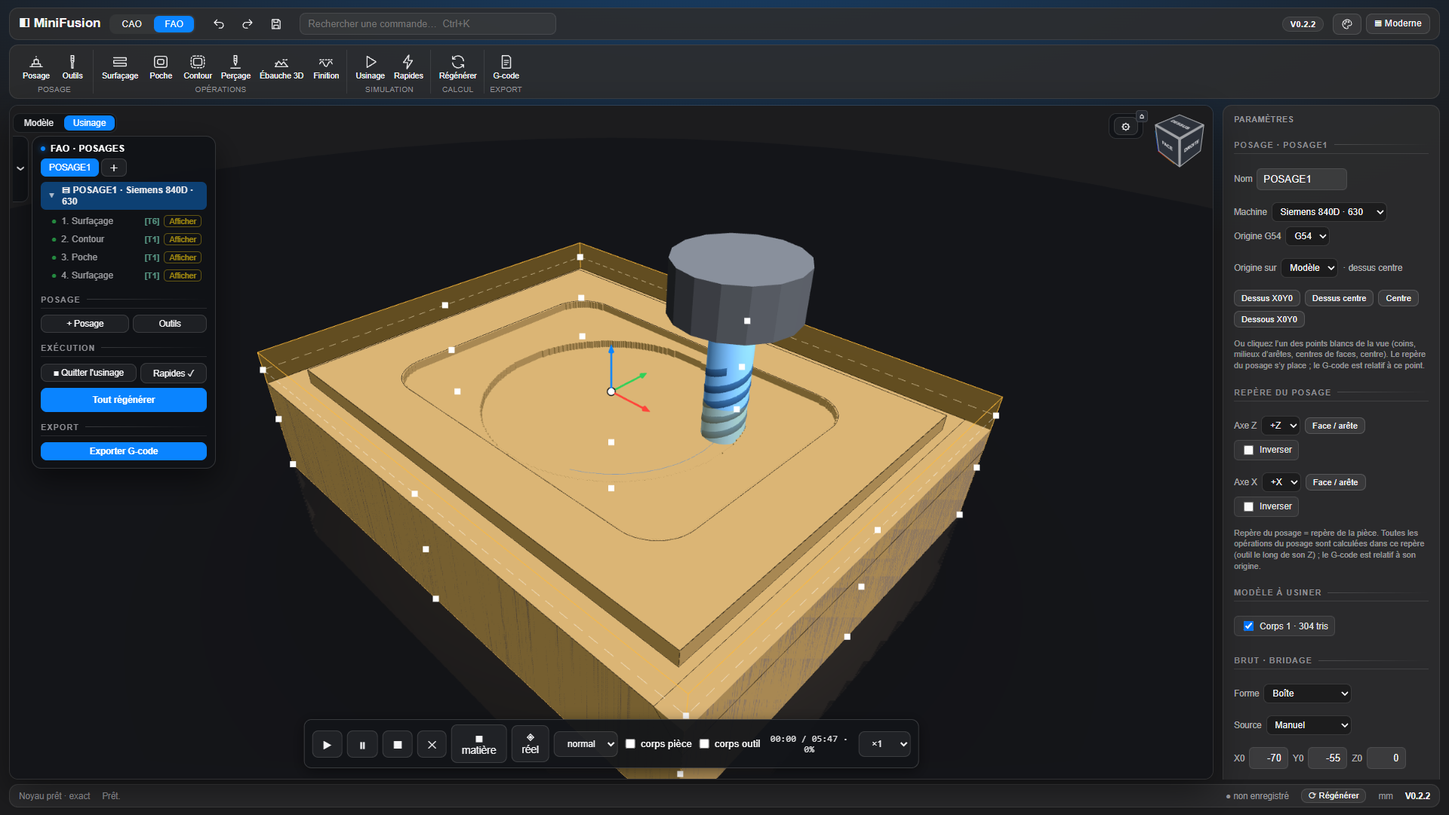
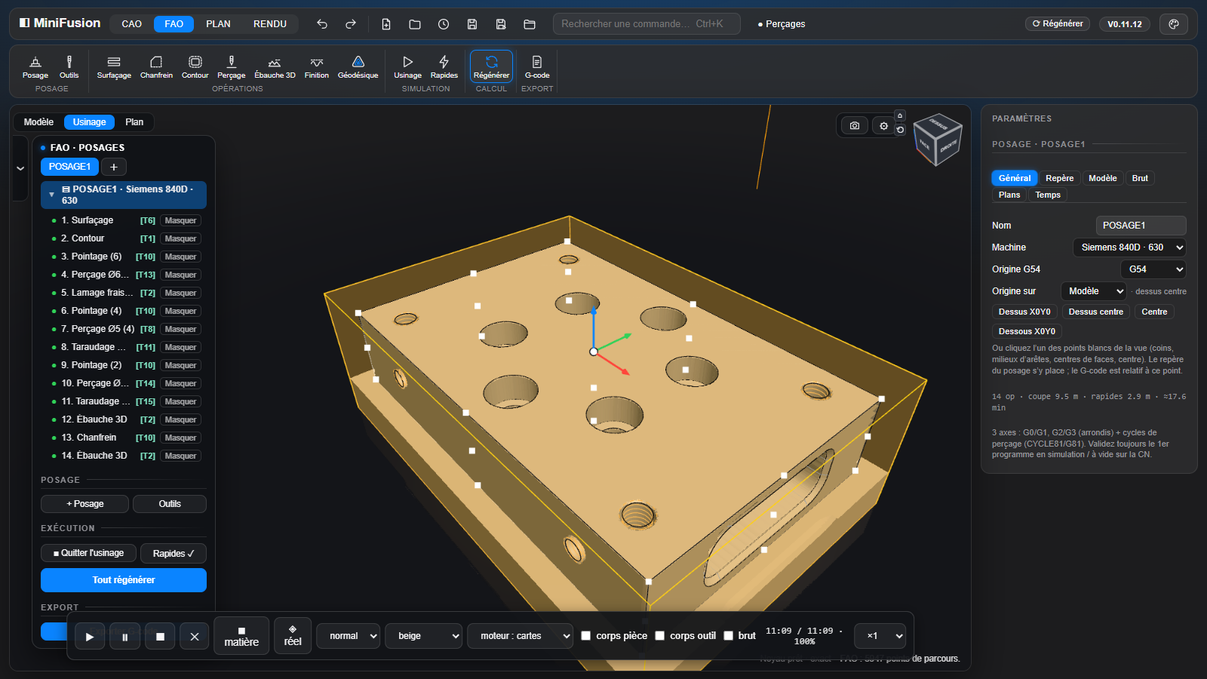
README refait pour la V0.11.12 : captures neuves CAO, FAO, PLAN, RENDU
- README réécrit : rendu de la Pédale R1200RT en tête, tableau des quatre
  espaces, sections Assemblage et RENDU, perçage reconnu sur le modèle,
  chiffres de développement à jour.
- 8 captures neuves (Perçages, Crochet, Support Pédale) ; les 12 anciennes
  (V0.3 à V0.9) retirées.
- tools/captures.cjs + npm run captures : captures refaites dans Chromium
  sur la carte graphique, sans réécrire les exemples.

diff --git a/README.md b/README.md
@@ -1,239 +1,153 @@
 # MiniFusion
 
-**CAO paramétrique, assemblage, FAO et mise en plan dans un seul fichier HTML.** Esquisses contraintes, solides à historique, congés exacts, posages, parcours 2,5D / 3D, 3+2, G-code et planches cotées ISO. On ouvre la page et on travaille : il n'y a ni installation ni compte.
+**CAO paramétrique, assemblage, FAO, mise en plan et rendu, dans un seul fichier HTML.** On ouvre la page et on travaille : ni installation, ni compte, ni connexion.
 
-Le noyau géométrique exact est **OpenCascade compilé en WebAssembly**. Si le noyau n'est pas disponible, l'application bascule seule sur un moteur maillage (CSG). Version actuelle : **V0.9.13** (voir le [journal des modifications](CHANGELOG.md)).
+![Support de pédale déportée R1200RT, rendu de l'atelier RENDU](docs/captures/rendu-pedale.png)
+
+Le noyau géométrique exact est **OpenCascade compilé en WebAssembly**. S'il n'est pas disponible, l'application bascule seule sur un moteur maillage (CSG). Version actuelle : **V0.11.12** (voir le [journal des modifications](CHANGELOG.md)).
+
+| | |
+|---|---|
+| ![Espace CAO](docs/captures/cao-percages.png) | ![Espace FAO](docs/captures/fao-parcours.png) |
+| **CAO** : esquisses contraintes, solides à historique, congés exacts, perçages taraudés | **FAO** : posages, 2,5D, 3D, 3+2, perçage, simulation, G-code Siemens et Fagor |
+| ![Espace PLAN](docs/captures/plan-percages.png) | ![Atelier RENDU](docs/captures/rendu-atelier.png) |
+| **PLAN** : planches cotées ISO, coupes, cartouche, nomenclature | **RENDU** : images réalistes 1920×1080 ou 4K |
 
 ## Sommaire
 
 - [Interface](#interface)
-- [CAO](#cao) : esquisse, fonctions 3D, corps, mesures, fichiers
-- [Composants](#composants) : composants imbriqués, occurrences, placement par repères
-- [FAO](#fao) : posage, brut, opérations, simulation, 3+2, G-code
+- [CAO](#cao) : esquisse, construction, fonctions 3D, corps et fichiers
+- [Assemblage](#assemblage) : composants, liaisons, références entre composants
+- [FAO](#fao) : posage, opérations, perçage, simulation, 3+2, G-code
 - [PLAN](#plan) : planches, vues, coupes, cotation, sorties
+- [RENDU](#rendu) : ambiances, matériaux, appareil photo
 - [Souris et clavier](#souris-et-clavier)
-- [Démarrage](#démarrage) · [Développement](#développement) · [Licences](#licences)
+- [Démarrage](#démarrage) · [Scripts et MCP](#scripts-et-pilotage-par-claude-mcp) · [Développement](#développement) · [Licences](#licences)
 
 ## Interface
 
-![Interface](docs/captures/interface-moderne.png)
-
-Une seule interface, organisée en **trois espaces** : **CAO**, **FAO** et **PLAN**.
-- **Bandeau supérieur** : espaces CAO / FAO / PLAN, barre rapide (annuler, rétablir, fichiers), **recherche de commandes** (`Ctrl+K`), puis l'**état** — noyau, message en cours (texte complet au survol), **Régénérer**, unité —, le nom du document (● = non enregistré) et la version. Au premier lancement, le bouton **Noyau .wasm…** y active le noyau exact. Sur un écran étroit, l'état passe sur une 2ᵉ ligne du bandeau.
-- **Ruban à icônes** propre à chaque espace, sous le bandeau.
-- **Navigateur Modèle / Usinage** avec des **onglets de posages**, et panneau de propriétés à droite. Pas de barre en bas : la **vue 3D descend jusqu'en bas** de la fenêtre.
-- **Fenêtres de fonctions à icônes** (extrusion pour commencer) : les choix (opération, direction, étendue) en boutons à icône plutôt qu'en listes, les réglages rares dans « ▸ Options », **Annuler / OK**.
-- **Cinq thèmes** (bouton palette) : **Nuit**, **Graphite**, **Atelier**, **Clair** (vue 3D claire comprise) et **Contraste élevé**. Le choix est mémorisé.
-
-![Thème clair](docs/captures/theme-clair.png)
-
-**Vue 3D**
-- **Cube de vue** cliquable (faces, ⌂ = vue iso complète) et vues Dessus / Face / Droite / Iso.
-- **Orbite contrainte** (Z en haut) ou **orbite libre** dans tous les sens, au choix par le bouton ⟲ du cube ; le **centre de rotation** est la face sélectionnée, sinon le centre des pièces visibles (en mode Placer : la pièce sélectionnée ou le repère cliqué dans l'arbre).
-- **Sol miroir** sous la dernière pièce visible (composants autour de la pièce compris ; sous le brut en FAO, simulation comprise). En FAO, le haut de la vue est le Z du posage ou de l'opération.
-- **Transparence « verre »** : une pièce transparente montre son intérieur, mais jamais à travers une pièce opaque qui la cache.
+Quatre espaces dans le bandeau supérieur : **CAO**, **FAO**, **PLAN** et **RENDU**.
+- **Bandeau** : barre rapide (annuler, rétablir, fichiers), **recherche de commandes** (`Ctrl+K`), état du noyau, **Régénérer**, nom du document (● = non enregistré) et version.
+- **Ruban à icônes** propre à chaque espace.
+- **Navigateur Modèle / Usinage / Plan** à gauche, avec des **onglets de posages** ; **propriétés** à droite ; **timeline** en bas de la vue 3D.
+- **Fenêtres de fonctions** à boutons-icônes, aperçu immédiat, poignées dans la vue, **Annuler / OK**.
+- **Annuler / Rétablir partout** (`Ctrl+Z` / `Ctrl+Y`) : CAO, esquisse, assemblage, FAO, PLAN et RENDU.
+- **Cinq thèmes** : Nuit, Graphite, Atelier, Clair, Contraste élevé.
+- **Vue 3D** : cube de vue, orbite contrainte ou libre, centre de rotation sur la sélection, sol miroir, transparence « verre ».
 
 ## CAO
 
-![Esquisse](docs/captures/cao-esquisse.png)
+![Crochet : extrusion, congés, perçages fraisés](docs/captures/cao-crochet.png)
 
 ### Esquisse
 
-**Vue d'esquisse, façon Fusion 360**
-- À l'ouverture, l'esquisse se met **à plat**, face choisie **devant et à l'endroit** (le Z du monde en haut). Si on décoche la case **« À plat »**, la **vue 3D courante est gardée** : on dessine sur le plan sans quitter son point de vue, et la vue reste orientée ainsi à la sortie.
-- **Orbite** pendant le dessin : **clic-molette glissé**, cube de vue, ou bouton **⟳** (vue inclinée ↔ à plat). La touche **N** remet la vue à plat dans le plan de l'esquisse. Le tracé, l'accrochage, le zoom et le déplacement restent exacts sur le plan sous tous les angles, et les cotes restent lisibles.
-- La **pièce est affichée en transparence** : faces légèrement teintées, toutes les arêtes tracées comme en 3D (gris clair devant, gris plus sombre derrière). Pour une esquisse consommée par une fonction, c'est l'état de la pièce **avant** cette fonction.
-- **Grille** affichable ou masquée (bouton **▦**, masquée par défaut, choix mémorisé) ; les axes de l'origine restent toujours visibles. L'accroche au pas (« Grille 1 mm ») marche dans les deux cas.
-- **Bandeau Esquisse** sans boutons en double : le zoom se fait à la molette ; pendant une esquisse, les flèches ↩ ↪ du bandeau supérieur (et `Ctrl+Z` / `Ctrl+Y`) annulent et rétablissent les **tracés**.
-- Une esquisse posée sur une face verticale a son axe vertical vers le haut : elle ne s'ouvre plus à l'envers.
-
-![Esquisse en vue 3D inclinée : pièce en transparence, arêtes visibles et cachées](docs/captures/cao-esquisse-3d.jpg)
-
-**Dessin et contraintes**
-- **Outils** : ligne, rectangle (coin ou centre), oblong, cercle, arc, points de construction et de perçage, **projection associative** d'arêtes 3D, **intersection** du plan d'esquisse avec des faces ou un corps entier (touche I, courbes associatives), congé, chanfrein et décalage 2D, ajustement (trim).
-- **Contraintes** (13) : horizontal, vertical, parallèle, perpendiculaire, colinéaire, égal, symétrie (y compris par rapport à une droite infinie), tangence (le côté se choisit), coaxial, milieu, fixe, coïncident, construction.
-- **Solveur** : moindres carrés (Levenberg-Marquardt) au **moindre déplacement** : le reste de l'esquisse bouge le moins possible, un point tenu sur une courbe glisse. Un **glisser avance par petits pas**, chacun résolu depuis le précédent, sans sauter vers la solution symétrique ; au bord de ce que la géométrie peut atteindre, elle s'arrête. Une **cote ou une contrainte impossible est refusée** : l'esquisse reste telle quelle et la barre d'état dit pourquoi. Le panneau « Santé » affiche les degrés de liberté réels ; l'esquisse est bleue (sous-contrainte) ou blanche (totalement contrainte).
-- **Cotes pilotées** : longueur, Ø, rayon, distance, angle, entraxe ; cotes de référence ; saisie dynamique de la longueur et de l'angle pendant le tracé.
-- **Paramètres nommés** (`nom = valeur`) et **expressions ƒx**, dans les cotes comme dans les champs des fonctions 3D.
-- **Configurations** (fenêtre ƒx) : une table de variantes — une colonne par valeur nommée, une ligne par variante (valeurs ou expressions, fonctions supprimées). Le sélecteur en tête de l'arbre active une variante : valeurs écrites, fonctions supprimées / rétablies, régénération, une étape d'annulation. « Mémoriser l'état actuel » remplit la variante active.
-- **Raccourcis** `F1`–`F12` (contraintes), `H` (centre de perçage), `L` `C` `R` `B` `P` `T` `D` `F` `O` (outils), `X` (construction), `N` (à plat), plus une aide intégrée.
-
-![Pièce de révolution, congés, chanfreins, perçages répétés](docs/captures/cao-axe.png)
+- **Outils** : ligne, rectangle, oblong, cercle, arc, points de construction et de perçage, **projection associative** d'arêtes (aussi celles des autres composants), **intersection** du plan avec des faces ou un corps, congé, chanfrein, décalage 2D, ajustement.
+- **13 contraintes** (horizontal, vertical, parallèle, perpendiculaire, colinéaire, égal, symétrie, tangence, coaxial, milieu, fixe, coïncident, construction) et **cotes pilotées** (longueur, Ø, rayon, distance, angle, entraxe).
+- **Solveur** Levenberg-Marquardt au moindre déplacement : une cote impossible est refusée et la barre d'état dit pourquoi ; degrés de liberté réels, esquisse bleue (sous-contrainte) ou blanche (totalement contrainte).
+- **Vue d'esquisse** à plat ou dans la vue 3D courante, pièce en transparence, orbite au clic-molette, touche `N` pour revenir à plat.
+- **Paramètres nommés**, **expressions ƒx** et **configurations** (tables de variantes).
 
 ### Géométrie de construction
 
-Groupe **Construire** du ruban (et `Ctrl+K`) : des références à la manière de Fusion 360, rangées dans le groupe **📐 Construction** de l'arborescence et placées dans le fil des fonctions.
-- **Plans** : décalé, à un angle autour d'un axe, par 3 points, médian entre deux plans parallèles, normal à un axe.
-- **Axes** : sur une arête droite, une face cylindrique ou conique, un axe ; par 2 points ; intersection de 2 plans ; normal à un plan.
-- **Points** : sommet, centre d'une arête circulaire, point d'esquisse ; coordonnées dans un repère ; intersection axe / plan.
-- **Repères** : origine + direction Z + direction X, sur un plan ou une face, ou par 3 points ; décalages et rotation autour de Z.
-- Les références se désignent **dans la vue** (faces, arêtes, sommets, éléments de construction) **ou dans l'arbre** (plans et axes X / Y / Z de l'origine). Valeurs en **ƒx**, aperçu en direct, ✓ pour valider.
-- **Esquisse dessus** : double-clic sur un plan (ou un plan de repère) dans l'arbre, ou bouton Esquisse. L'esquisse suit le plan quand il bouge.
-- **Associatif** : un plan posé sur une face suit la pièce quand une cote change. Si une référence disparaît, ou sans noyau exact, l'élément garde sa dernière position et affiche ⚠.
+Plans (décalé, à un angle, 3 points, médian, normal), axes, points et **repères**, désignés dans la vue ou dans l'arbre. Ils sont **associatifs** : un plan posé sur une face suit la pièce quand une cote change.
 
 ### Fonctions 3D
 
-Historique rejouable, arborescence et marqueur de temps. **Bandeau de timeline** en bas de la vue 3D, à la manière de Fusion 360 : une étape par fonction, esquisse ou élément de construction, avec **l'icône de la commande du ruban** qui l'a créée — **vert** pour un ajout de matière, **rouge avec « − »** pour un enlèvement ; clic = sélection, double-clic = édition, marqueur temps glissable (⏮ ◀ ▶ ⏭), glisser-déposer d'une fonction pour la réordonner dans son corps.
-- **Extrusion dynamique** : ajout ou découpe, sur une distance, jusqu'à une face ou à travers tout, en symétrique, avec dépouille ; elle peut créer un **nouveau corps**. Elle **apparaît tout de suite** (l'aperçu est le résultat) ; une **flèche se tire dans la vue** (pas de 1 mm, Maj = libre, de l'autre côté du plan = sens inversé) et un champ **« Distance »** flotte à côté. La fenêtre présente opération, direction et étendue en **boutons à icônes**, la dépouille dans « ▸ Options », **Annuler / OK** (Échap annule). Sélectionner une extrusion rouvre la même fenêtre pour la modifier.
-- **Révolution** autour d'une ligne de l'esquisse ou d'un axe X / Y / Z, en **fenêtre dynamique** comme l'extrusion : elle apparaît tout de suite, une **poignée d'angle** tourne autour de l'axe dans la vue, Annuler / OK.
-- **Perçage** simple, lamé, fraisé ou taraudé (filet ISO réellement modélisé), débouchant ou borgne, répétable ; type et fin en **boutons à icônes**, **flèche de profondeur** dans la vue (trou borgne), Annuler / OK.
-- **Congés et chanfreins exacts** sur les arêtes cliquées, en suivant la chaîne tangente ou sur l'arête seule ; aperçu avec les nouvelles faces en orange ; **flèche de rayon** dans la vue et champ « Rayon (toutes) », Annuler / OK.
-- **Répétition** : linéaire, à **une ou deux directions (grille)**, circulaire, symétrie simple ou double. Chaque direction se règle sur X / Y / Z ou sur la sélection de la vue avec **🎯**, sur la ligne de son axe — **arête** droite (sa direction), **cercle ou arc** (son axe) ou **face** (sa normale) — et **⇄** l'inverse.
-- **Modifier le solide** : déplacer une face (push / pull), **supprimer une face** (`Suppr`, les voisines se prolongent : congé → arête vive, trou rebouché), dépouille, coque, **combiner** des corps (union, soustraction, intersection).
+Historique rejouable, timeline à icônes (vert = ajout, rouge = enlèvement), marqueur de temps glissable, réordonnancement par glisser-déposer. Une fonction ne s'appuie que sur ce qui la précède (**règle d'antériorité**).
+- **Extrusion** et **révolution** dynamiques : distance, jusqu'à une face, à travers tout, symétrique, dépouille, nouveau corps.
+- **Perçage** simple, lamé, fraisé ou **taraudé** (filet ISO réellement modélisé), débouchant ou borgne.
+- **Congés et chanfreins exacts** sur la chaîne tangente ou l'arête seule (un clic ajoute ou retire une arête), avec reprise NURBS quand le noyau refuse la chaîne.
+- **Répétition** linéaire, en grille, circulaire, symétrie.
+- **Modifier** : déplacer ou supprimer une face, dépouille, coque, **scinder** par un plan, **déplacer un corps** (translation, rotation, point à point), **combiner** (union, soustraction, intersection).
 
 ### Corps, mesures, fichiers
 
-- **Corps** : couleur, intensité, **transparence « verre »** avec arêtes cachées en filigrane, isoler, tout afficher.
-- **Mesures** : face à face, Ø, entraxe, et mesure entre 2 arêtes avec `Ctrl+clic`.
-- **Repère pièce** : point central, axes et 3 petits plans cliquables (esquisse dessus) ; chaque élément se masque séparément.
-- **Fichiers** : import STEP / STL ; export STEP / STL / OBJ (aussi pour un seul corps) ; projet **`.miniFusion`** (document, parcours FAO, planches) ; sauvegarde locale automatique.
-- **Enregistrement sûr** : le contenu est contrôlé avant d'écrire (un enregistrement raté ne remplace jamais un bon fichier), l'écriture est abandonnée en cas d'erreur, et la **version précédente** est gardée : `nom.miniFusion.bak` à côté du fichier quand il est dans le dossier de projets, et toujours dans le navigateur. Menu Projet → **Copie de secours…** pour la rouvrir (Ctrl+S la remet dans le fichier).
+- **Corps** : matériau (bibliothèque commune avec le RENDU, masse estimée), couleur, transparence, isoler.
+- **Mesures** : face à face, Ø, entraxe, entre deux arêtes.
+- **Fichiers** : import STEP / STL, export STEP / STL / OBJ, projet **`.miniFusion`** (pièce, FAO, planches, rendu), sauvegarde locale automatique.
+- **Enregistrement sûr** : contenu vérifié avant écriture, version précédente gardée (`nom.miniFusion.bak` et copie dans le navigateur).
 
-## Composants
+## Assemblage
 
-Comme dans Fusion 360, **tout est composant**. Le fichier est le **composant racine** : une pièce complète (esquisses, construction, corps, FAO, PLAN) qui peut porter des **composants enfants**, eux-mêmes pièces complètes avec leurs propres enfants, à n'importe quelle profondeur. Un fichier sans composant reste exactement comme avant ; un assemblage de V0.6.0 s'ouvre tel quel (ses pièces deviennent des composants d'une racine vide).
-
-Deux modes pour le composant actif (groupe **Composants** du ruban) :
-- **Modéliser** : on l'édite comme une pièce seule (CAO, FAO, PLAN) ; le reste de l'assemblage est affiché autour **comme en mode Placer** (arêtes, intensité, transparence), non sélectionnable ;
-- **Placer** : on déplace ses composants enfants (clic n'importe où sur un enfant = le sélectionner).
-
-Navigation :
-- **double-clic** sur un composant (vue ou arbre) : on le modélise ;
-- **fil d'Ariane** « 🧩 Racine › Châssis › Roue » en tête de l'arbre (la racine porte le nom du fichier) : un clic remonte à ce niveau **dans le mode en cours** ; ses boutons **✏ Modéliser** et **🧩 Placer** changent de mode sans quitter la pièce (Placer depuis une pièce sans sous-composants : l'assemblage qui la contient, elle sélectionnée) ; **Échap** en mode Placer (rien de sélectionné) remonte d'un niveau ;
-- section **Composants** de l'arbre : toute la hiérarchie, double-clic pour aller n'importe où.
-
-Commandes :
-- **Composant** : nouveau composant dans le composant actif, on entre aussitôt dedans ;
-- **Occurrence** : le même composant, une fois de plus ;
-- **Insérer** : copie un autre fichier `.miniFusion` comme composant du composant actif (sa racine avec sa géométrie, ses sous-composants imbriqués) ;
-- **placer** : manipulateur (flèches = déplacer, anneaux = tourner, pas de 1 mm et de 5°, Maj = libre), panneau (position X / Y / Z, rotations de ±90°) ;
-- **Rotation de la vue en mode Placer**, comme en Modéliser : autour de l'occurrence sélectionnée, ou du repère de référence cliqué dans l'arbre (origine du composant, repère de construction ; clic à nouveau ou Échap pour revenir), sinon autour du centre des pièces placées ;
-- **Apparence en mode Placer** : les arêtes s'affichent comme en Modéliser (bouton « Arêtes »). Chaque occurrence a ses propres réglages, ceux d'un corps — « Intensité », « Transparence » (même rendu verre : perçages et arêtes cachées visibles) — et ses arêtes ; la couleur reste celle des corps, la même partout (comme le bouton, toujours, jamais) ; valables pour tout ce qu'elle contient, la même en mode Modéliser pour les composants affichés autour de la pièce, « Appliquer à toutes les occurrences » ;
-- **Aligner un repère** : un repère du composant (son origine, un repère de construction, le sien ou celui d'un sous-composant) posé sur un repère du composant actif (sa **géométrie de base** : origine, repères de construction) ou d'un autre de ses composants, à toute profondeur, avec retournement, rotation et décalage. **Points d'accroche** : au lieu d'un repère, on clique une face d'un composant et on choisit un point de sa géométrie — centre et points cardinaux d'une face plane (nord, sud, est, ouest, coins), début, milieu ou fin de l'axe d'un cylindre, centre d'un cercle ou d'un arc, milieu ou extrémités d'une arête ; Z suit la normale de la face ou l'axe. **Associatif** : si un composant change, son repère ou sa face bouge et les composants alignés suivent (face disparue : ⚠, position gardée) ;
-- **Fixer** (📌), **masquer**, **renommer**, **supprimer** (la dernière occurrence emporte son composant). Ctrl+Z / Ctrl+Y annulent les opérations de placement en mode Placer.
-
-Convertir une pièce multicorps en assemblage, sans rien remodéliser :
-- **Depuis corps** (ruban), ou clic droit sur un corps → **Créer un composant depuis ce corps** : le corps et tout ce qui le construit (ses fonctions, les esquisses et la construction dont elles dépendent, les paramètres) passent dans un composant neuf, à la même place, avec sa couleur. Sans corps sélectionné, « Depuis corps » convertit chaque corps ;
-- clic droit sur un corps ou une esquisse → **Déplacer vers un composant…** : vers un composant existant, ou neuf ;
-- une esquisse ou une construction utilisée aussi par ce qui reste est **copiée**, sinon **déplacée**. L'opération est **refusée, avec la raison**, quand ce qui part s'appuie sur ce qui reste (esquisse posée sur une face d'un autre corps, combinaison entre corps) ou l'inverse ;
-- une seule étape d'annulation : Ctrl+Z en mode Modéliser la défait entièrement.
-
-**Composants liés** (Chrome / Edge) : un composant peut venir d'un autre fichier `.miniFusion` et rester LIÉ à lui.
-- **Insérer** propose **Lier** (recommandé) ou **Copier**. Un fichier du **dossier de projets** est retrouvé par son chemin, sur n'importe quel PC qui synchronise ce dossier (Dropbox) ; hors du dossier, le lien ne vaut que sur cet ordinateur. Le fichier hôte garde une copie : il s'ouvre même sans la source (⚠).
-- **Édition sur place** : on modélise un composant lié comme un autre (✎ dans l'arbre) ; à l'enregistrement de l'assemblage (Ctrl+S), sa source est réécrite d'abord (trajectoires FAO de la source gardées).
-- **Mise à jour** : à l'ouverture, au retour sur l'onglet et par 🔄 dans l'arbre (le premier clic autorise l'accès au dossier) : une source changée ailleurs est rechargée, les alignements suivent. Modifiée des deux côtés : **Garder les miennes**, **Prendre la source** ou **Rompre le lien**.
-**Mise en plan d'assemblage** (espace PLAN du composant actif) :
-- une vue peut montrer **🧩 Assemblage (avec les composants)** (liste « Corps » de la vue) : le composant et toutes ses instances, en lignes cachées exactes (HLR OCCT), coupes et détails compris ; elle suit les placements ;
-- **nomenclature** par composant : corps du composant (comme avant), composants du 1er niveau, de tous les niveaux, ou pièces seules ; quantités, dimensions, matière (celle du composant, ou saisie au plan) ;
-- **bulles automatiques** sur la première vue d'assemblage : numérotées comme la nomenclature, et renumérotées avec elle. Chaque bulle s'accroche sur une partie **visible** de sa pièce et se range autour de la vue, sans que son trait passe au-dessus d'une autre pièce ni sur le titre de la vue. Une bulle **se glisse**, `Suppr` la retire, **＋ Bulle** en pose une sur la pièce cliquée.
-- **Coupes d'assemblage** : les vues dérivées (coupe, projetée, détail, auxiliaire) d'une vue « Assemblage » montrent l'assemblage ; **une hachure par pièce** (45° / 135°, puis pas différent), réglable dans la fenêtre des hachures.
-
-**Inspecter** (ruban Composants, noyau exact) : sur le composant actif et tout ce qu'il contient — ou sur une pièce multicorps seule.
-- **Propriétés physiques** : volume, masse et centre de gravité par corps et au total (sphère jaune) ; la **matière** se choisit par composant (acier par défaut, inox, aluminium, laiton, bronze, cuivre, fonte, titane, PLA, ABS, PETG, nylon, POM, chêne).
-- **Interférences** : volume commun entre deux corps (même pièce ou composants différents), en rouge dans la vue, avec son volume.
-- Formes exactes gardées en cache tant qu'un composant ne change pas : relancer est immédiat.
-
-**Liaisons mécaniques** : un alignement devient une liaison en choisissant son type dans le panneau — **Rigide** (l'alignement), **Pivot** (rotation autour de Z du repère de liaison), **Glissière** (le long de Z), **Pivot glissant**, **Plan** (X, Y et rotation Z), **Rotule**.
-- Chaque degré de liberté a son **curseur** (valeur, limites min / max) ; le **manipulateur** ne propose que ces mouvements (anneau pour une rotation, flèche pour une translation), dans les limites.
-- **Liaison telle que construite** : à la position actuelle, autour d'un axe de l'occurrence, sans choisir de repères — rien ne bouge à la création.
-- **Capturer la position** (position de repos) / **Rétablir**, **▶ Animer** entre les limites (Échap arrête). Sans occurrence sélectionnée, le panneau **pilote toutes les liaisons** du composant.
-- Résolution directe dans l'ordre des dépendances (chaque occurrence a au plus une liaison) : une boucle fermée donne ⚠.
-
-**Références entre composants** : dans un composant, un plan, un axe, un point ou un repère de construction peut reprendre un élément d'un AUTRE composant (méthode **Depuis un autre composant** : un de ses plans, axes, points ou repères de construction, ou de son origine). On y pose une esquisse, on extrude jusqu'à lui, on aligne dessus… comme sur un élément du composant.
-- **Associatif** : si l'autre composant change ou se déplace, l'élément suit, et le composant est rejoué (même inactif) ; **Figer** l'arrête à sa position.
-- La référence est prise **en contexte** : depuis l'instance où l'on travaille (un composant présent deux fois garde la position vue depuis la première).
-- Élément visé supprimé : position gardée, ⚠ ; références circulaires (un placement qui dépend d'une référence qui dépend de ce placement) : ⚠ après trois passes.
-- **Arêtes des autres composants dans une esquisse** : l'outil **Projeter** de l'esquisse propose aussi les arêtes exactes des autres composants de l'assemblage (lignes, arcs, cercles), vues depuis l'instance où l'on travaille. L'arête projetée **suit** quand l'autre composant se déplace ou change (même inactif), comme une projection d'arête de la pièce.
-
-- Clic droit sur un composant : **Extraire vers un fichier…** (il devient lié à ce fichier), **Remplacer par un lien…**, **Relier la source…** (fichier déplacé ou renommé), **Rompre le lien** (copie locale), **Mettre à jour les liens**. Lier deux fois la même source donne une nouvelle occurrence.
+Comme dans Fusion 360, **tout est composant** : le fichier est le composant racine, ses enfants sont des pièces complètes, à n'importe quelle profondeur.
+- **Arbre unifié** : pièce et composants dans une seule arborescence, avec recherche et glisser-déposer.
+- **Modéliser** le composant actif (le reste de l'assemblage affiché autour) ou **Assembler** ses enfants (manipulateur, pas de 1 mm et 5°).
+- **Composant**, **Occurrence**, **Insérer** un autre fichier, **Depuis corps** pour convertir une pièce multicorps sans rien remodéliser.
+- **Composants liés** à un fichier du dossier de projets : édition sur place, mise à jour, conflits gérés.
+- **Aligner** un repère ou un **point d'accroche** (centre et points cardinaux d'une face, axe d'un cylindre, centre d'un cercle) sur un autre composant, de façon associative.
+- **Liaisons** : rigide, pivot, glissière, pivot glissant, plan, rotule, avec limites, curseurs et animation.
+- **Références entre composants** : faces, arêtes, sommets, plans et axes d'un autre composant servent de références, et suivent ses changements.
+- **Inspecter** : propriétés physiques (volume, masse, centre de gravité) et interférences.
 
 ## FAO
 
-![Posage : brut, points cardinaux, repère](docs/captures/fao-posage.png)
+![Simulation : programme complet taillé dans le brut](docs/captures/fao-simulation.png)
 
-### Posage et brut
+### Posage
 
-- Le repère du posage est **le repère d'usinage** : son origine est le **Z0** de toutes ses opérations et du G-code. Tous les calculs se font dans ce repère.
-- **Origine** : un des **27 points cardinaux** du brut ou du modèle, cliqué dans la vue. **Orientation Z / X** sur les axes de la pièce, par clic sur une face ou une arête, ou par **rotation autour de X**.
-- **Brut** : **boîte**, **cylindre** (axe X / Y / Z, Ø exact) ou **corps réel** (un corps du modèle sert de brut, il est usiné et simulé tel quel) ; marge XY et surépaisseurs Z+ / Z− ; affiché en transparence quand le posage est sélectionné.
-- **Fiche posage en onglets** : Général, Repère, Modèle, Brut, Plans, Temps.
-- **Réglages machine** : Siemens 840D (630 / 1520) ou Fagor 8065, origine G54–G59, plans de dégagement et de retrait, bridage.
-- **Outils** : fraises cylindriques, boules, toriques, forets et forets à pointer (pointe réelle), **foret à centrer DIN 333 A**, tarauds.
-
-![Simulation d'usinage avec enlèvement de matière](docs/captures/fao-simulation.png)
+- Le repère du posage est **le repère d'usinage** : origine sur un des **27 points cardinaux** du brut ou du modèle, directions Z / X sur un axe, une face ou une arête, cases « Inverser ».
+- **Brut** : boîte, cylindre ou corps réel du modèle ; marges et surépaisseurs.
+- **Machine** : Siemens 840D (630 / 1520) ou Fagor 8065, origine G54–G59, plans de dégagement et de retrait.
+- **Outils** : fraises cylindriques, boules, toriques, à chanfreiner, forets, forets à pointer et à centrer (DIN 333 A), tarauds.
 
 ### Opérations
 
-- **Surfaçage**, **Chanfrein** (arêtes cliquées, largeur, décalage de pointe ; fraise à chanfreiner ou foret à pointer — la Poche des anciens fichiers reste calculée), **Contour** (avec attaches), **Perçage** (cycles 81 / 82 / 83, débourrage, brise-copeaux, taraudage, fraisage hélicoïdal, pointage).
-- **Ébauche 3D** : niveaux en Z, minipasses entre les niveaux, fond plat hors grille usiné par une passe limitée à l'épaulement, entrées par l'extérieur quand l'air est à portée, sinon en hélice ; option **« Finir une région avant l'autre »** ; calcul sur un maillage précis (0,05 mm) du solide exact.
-- **Finition** (passes parallèles ou à crête constante) et **Géodésique** (passes à distance constante sur les faces choisies, depuis leurs bords, rejointes en glissant au contact).
-- **Faces usinables (bleu) / intouchables (rouge)** par opération, avec marge et **« Interdire devant la face »** : la fraise ne descend jamais le long d'un flanc rouge.
-- **Zones** : rectangle, chaîne d'arêtes du modèle ou esquisse, avec îlots ; hauteurs par références (dessus du brut, haut ou bas du modèle, bridage, face cliquée, origine).
-- **Simulation** : outil réel, matière enlevée au fil des passes à partir du vrai brut, rendu réel ou lisse, temps estimé. La matière est éclairée d'après la **forme de l'outil** (fond, arrondi, pointe, parois) et dessinée par la **carte graphique** (maille de 0,2 mm). En 3+2, chaque orientation d'outil a sa **carte de hauteurs** et la matière est rendue par **lancer de rayons** : les cavités latérales sont aussi nettes que le dessus.
-- **Moteur de simulation** (barre de lecture) : **cartes** (défaut, ci-dessus) ou **distance** (champ de distance signée, surfaces lisses sans marches, arêtes légèrement adoucies). Mêmes outils, mêmes parcours ; le choix est mémorisé. Les deux **taillent et affichent sur la carte graphique** : cartes de hauteurs taillées par un test de profondeur, champ de distance taillé dans une texture 3D et affiché par lancer de rayons. Sans WebGL2, la taille repasse en JavaScript.
+- **Surfaçage**, **Contour** (côté auto, passes radiales, attaches), **Chanfrein** sur arêtes cliquées.
+- **Perçage** : les trous sont **reconnus sur le modèle** (Ø, profondeur, débouchant ou borgne, lamage, filet) et choisis par groupe ; pointage, perçage, débourrage, taraudage, **lamage fraisé en hélice** ; **gamme automatique** pointage → perçage → lamage → taraudage, avec les forets pris dans la bibliothèque ou créés.
+- **Ébauche 3D** : niveaux en Z, minipasses, entrées par l'extérieur ou en hélice, spirale « escargot », une région finie avant l'autre.
+- **Finition** (passes parallèles ou à crête constante) et **Géodésique** (passes à distance constante depuis les bords des faces).
+- **Faces usinables / intouchables** par opération, **zones** (rectangle, chaîne d'arêtes, esquisse, îlots), hauteurs par références.
+
+### Simulation, 3+2 et G-code
+
+- **Simulation** sur la **carte graphique** : outil réel, matière enlevée à partir du vrai brut, rendu réel ou lisse ; moteur **cartes de hauteurs** (une par orientation en 3+2, lancer de rayons) ou **champ de distance**.
+- **3+2** : chaque opération peut avoir son propre Z et X ; sur Siemens, le plan de travail pivote par **`CYCLE800`** et les arcs G2/G3 et cycles de perçage sont écrits dans le plan incliné.
+- **G-code** multi-outils, cycles du dialecte (CYCLE81 à 84, G81 / G83), avance F modale. *Validez toujours un premier programme à vide sur la machine.*
 - **Cache des parcours** : rien n'est recalculé tant que la géométrie ne change pas.
-
-![3+2 : surfaçage d'un chanfrein, outil incliné](docs/captures/fao-3plus2.png)
-
-### Repère d'opération (3+2) et G-code
-
-- Une opération peut avoir **son propre Z et X**, pris sur une face ou une arête, avec un **centre commun** avec le posage. Elle est calculée dans ce repère. Sur Siemens, le G-code **pivote le plan de travail par `CYCLE800`** (jeu « TABLE », mode 27, comme les posts Fusion de la 630 et de la 1520) après le dégagement de la machine, puis écrit X Y Z **dans le plan incliné** : arcs G2/G3 et cycles de perçage sont gardés ; la table est remise à plat en fin de programme. Réglage `swivel: 'traori'` dans la fiche machine pour l'ancienne sortie `TRAORI` + B / C. Le Fagor 3 axes est signalé. La simulation incline l'outil.
-- **G-code** multi-outils, cycles du dialecte, coordonnées relatives à l'origine du posage, **avance F modale** (écrite seulement quand elle change). *Validez toujours un premier programme à vide sur la machine.*
 
 ## PLAN
 
-**Mise en plan 2D** : les planches sont enregistrées avec la pièce et la FAO, et suivent le modèle.
-
-![Planche A3 : vues, coupe B-B, cotation, vue 3D](docs/captures/plan-planche.png)
+![Planche A4 du Crochet : vues, cotes, perçages, vue 3D](docs/captures/plan-crochet.png)
 
 ### Planches
 
-- **Formats** A4 à A0 en paysage (H) ou portrait (V), ou **format manuel** en mm ; plusieurs planches en onglets (nouvelle, dupliquer).
-- **Cadre** réglable : marges, traits, couleurs, zones de repérage, repères de centrage ; préréglages **Justet**, **ISO 5457**, Classique.
-- **Cartouche** éditable (esquisse contrainte, champs matière, TTS, TTH…), export / import `.mfcartouche` ; **nomenclature** et **tableau des révisions**.
-- **Écriture ISO 3098** : hauteurs des cotes, des repères et des textes.
-- **Paramètres du plan** enregistrés par projet, export / import `.mfplan`. Panneau en onglets : Planche, Cartouche, Dessin 2D, Axes, Cotation, Vue, Sortie.
+- **Formats** A4 à A0, paysage ou portrait, ou format manuel ; plusieurs planches en onglets.
+- **Cadre** réglable (préréglages Justet, ISO 5457, Classique), **cartouche** éditable avec logo, **nomenclature** et tableau des révisions.
+- **Écriture ISO 3098** et paramètres du plan enregistrés par projet (`.mfplan`).
 
 ### Vues
 
-- **Types** : Face, Projection (1er angle, liée à sa vue mère), ISO, Caméra (depuis la 3D), Auxiliaire, **Coupe** et **Détail**, par corps ou en assemblage.
-- **Arêtes exactes** du noyau (HLR OCCT), y compris pour un STEP importé ; cachées supprimées ou en pointillé, tangentes au choix ; ombrage ou rendu 3D.
-- **Projection** : orthogonale, **perspective** comme la vue 3D (la « fuyante » règle l'angle de champ) ou **cavalière** (angle et coefficient des fuyantes).
-- **Ligne de coupe** droite ou **brisée** (ISO 128-44), liée aux perçages, traits d'axe et arêtes (elle suit le trou) ; on tire un tronçon pour le déplacer, **Ctrl + clic** ajoute une brisure, **Maj + clic** l'enlève.
-- **Hachures** (ISO 128-50) : double-clic → motif, angle, échelle, couleur, pour toutes les coupes.
-- **Filetages** (ISO 6410) des perçages taraudés : 3/4 de cercle en bout, fond de filet et fin de filetage en coupe.
-- **Axes** (ISO 128-2) : trou, alignement, cercle de perçage, cylindres d'un STEP, **symétrie** entre deux droites (associatif) ; ils s'étirent, s'accrochent et se cotent.
+- **Face, projection, ISO, caméra, auxiliaire, coupe et détail**, par corps ou en assemblage (une hachure par pièce, bulles automatiques).
+- **Arêtes exactes** du noyau (HLR OCCT), y compris pour un STEP importé ; perspective et cavalière.
+- **Ligne de coupe** droite ou brisée (ISO 128-44), **hachures** (ISO 128-50), **filetages** (ISO 6410), **axes** (ISO 128-2).
 
-![Hachures : motif, angle, échelle, couleur](docs/captures/plan-hachures.png)
+### Cotation et sorties
 
-![Vue caméra en perspective, réglage de la fuyante](docs/captures/plan-perspective.png)
+- **Cote** unique (longueur, distance, Ø, rayon, angle), **tolérances ISO 286**, cotes associatives qui suivent la pièce.
+- **Perçages** cotés depuis la fonction Perçage (« Perçages auto » cote toute la planche), **ordonnées X / Y**, notes à flèche.
+- **Dessin 2D** sur la planche avec contraintes.
+- **Sorties** : SVG, **DXF R12** par calques, **PDF** au format exact, impression, en couleur ou tout en noir.
 
-### Cotation
+## RENDU
 
-- **Cote** (outil unique) : longueur, distance, Ø, rayon, angle. On tire une cote le long de ses lignes de rappel et sa valeur le long de la ligne ; double-clic = sens des flèches. Les cotes accrochées à un axe ou à une arête **suivent** quand la pièce change.
-- **Tolérances** : ± symétrique, double, **classe ISO 286** avec ses écarts (`Ø40 H7 (+0,025 / 0)`) ; cotes de référence.
-- **Perçages** : étiquette depuis la fonction Perçage (Ø, lamage, fraisure, taraudage, n×), avec tolérance ; « Perçages auto » cote toute la planche.
-- **Ordonnées X / Y** : une origine « 0 », des valeurs alignées qui se déplacent ensemble, une tolérance par valeur.
-- **Notes** à flèche et **alignement** de cotes sur une cote de référence.
-
-![Cotation : ordonnées, tolérance ISO 286, perçages, note](docs/captures/plan-cotation.png)
-
-**Dessin 2D** sur la planche : ligne, rectangle, cercle, arc, point, ajustement, texte ; contraintes et accrochage sur les vues.
-
-**Sortie** : SVG, **DXF R12** (calques CONTOUR, CACHE, AXE, COTES, HACHURES, FILETAGE…), **PDF** au format exact de la planche, impression ; en couleur ou tout en noir.
+Une image soignée de la pièce ou de l'assemblage, en **1920×1080 ou 4K**, enregistrée en PNG. L'atelier a sa propre scène : la vue CAO n'est jamais touchée.
+- **Ambiances** générées à la volée (studio, studio lumineux, atelier, extérieur, scène noire) : aucune image externe, l'application reste un seul fichier.
+- **Matériaux** de la bibliothèque commune (aciers, aluminiums usinés ou anodisés, laiton, plastiques, élastomères, peintures, bois, verres), **reliefs procéduraux** (brossé, sablé, moleté, bois).
+- **Affinage progressif** : ombres douces, bords lisses, **profondeur de champ** ; 16, 64 ou 256 passes pour l'image finale.
+- **Appareil photo** : focale en mm, ouverture, mise au point au clic, exposition, rendu des tons ; **vues enregistrées** avec la pièce.
+- **Fond et sol** : dégradé, uni ou transparent, sol miroir, ombre réglable.
 
 ## Souris et clavier
 
 | | Vue 3D | Esquisse |
 |---|---|---|
-| Clic gauche | sélection | dessin, sélection (jamais de rotation) |
+| Clic gauche | sélection | dessin, sélection |
 | Glisser gauche | rotation | dessin, déplacement d'entités, sélection au cadre |
-| Clic-molette glissé | rotation | **rotation** (orbite autour du centre du dessin) |
-| Clic droit glissé | déplacement | **déplacement** |
+| Clic-molette glissé | rotation | rotation autour du dessin |
+| Clic droit glissé | déplacement | déplacement |
 | Clic droit court | menu contextuel | menu contextuel / annuler l'action |
 | Molette | zoom | zoom sous le curseur |
-| Flèche bleue (extrusion sélectionnée) | glisser = distance (pas de 1 mm, Maj = libre) ; `Échap` annule la fenêtre | — |
-| Clavier | `Ctrl+K` commandes, `Suppr` supprimer une face | `N` à plat, `Échap` fin d'outil, `F1`–`F12`, `H`, `X`, `Ctrl+Z` / `Ctrl+Y` |
+| Clavier | `Ctrl+K` commandes, `Suppr` supprimer, `Ctrl+Z` / `Ctrl+Y` | `N` à plat, `Échap` fin d'outil, `F1`–`F12` contraintes, `L` `C` `R` `B` `P` `T` `D` `F` `O` outils, `H` perçage, `X` construction, `I` intersection |
 
 ## Démarrage
 
@@ -247,13 +161,13 @@ Server.bat
 npx serve . -l 3000
 ```
 
-En `file://` (double-clic sur `fusion_mvp.html`), l'application démarre en mode maillage. Le bouton **Noyau .wasm…** active le noyau exact, qui est ensuite gardé en cache. Des modèles d'exemple se trouvent dans `Exemples/`.
+En `file://` (double-clic sur `fusion_mvp.html`), l'application démarre en mode maillage ; le bouton **Noyau .wasm…** active le noyau exact, gardé ensuite en cache. Des projets d'exemple se trouvent dans `Exemples/` : **Perçages** (plaque usinée complète, avec sa planche), **Crochet**, **Support Pédale Déportée R1200RT 2011**, **Axe**, **Cavité Usinage**, **Malaxeur Retard**…
 
 Le dépôt stocke les gros binaires (`occt/*.wasm`, `Exemples/*.miniFusion`, `Exemples/*.step`) via **Git LFS**. Après un clone : `git lfs install` puis `git lfs pull`.
 
 ## Scripts et pilotage par Claude (MCP)
 
-- **Script JSON** (menu Projet → 📜) : une liste de commandes exécutées sur le document — `new`, `param`, `sketch` (rectangles, cercles, polygones, lignes sur XY / XZ / YZ, décalés), `extrude`, `revolve`, `config`, `info` (fonctions, paramètres, corps : volume, centre, boîte), `undo`. Le script est **atomique** (défait en entier à la première erreur) et compte pour **une** étape d'annulation.
+- **Script JSON** (menu Projet → 📜) : `new`, `param`, `sketch`, `extrude`, `revolve`, `config`, `info`, `undo`. Le script est **atomique** et compte pour **une** étape d'annulation.
 
 ```json
 [{"op":"param","name":"L","expr":"60"},
@@ -262,32 +176,31 @@ Le dépôt stocke les gros binaires (`occt/*.wasm`, `Exemples/*.miniFusion`, `Ex
  {"op":"info"}]
 ```
 
-- **Serveur MCP** `tools/mcp-minifusion.cjs` (Node, sans dépendance) : Claude — ou tout client MCP — envoie des scripts à la page et lit l'état du modèle. Outils : `minifusion_run_script`, `minifusion_info`, `minifusion_commands`. Installation dans Claude Code : `claude mcp add minifusion -- node <chemin>/tools/mcp-minifusion.cjs`. Puis, dans MiniFusion, menu Projet → **🔌 Pilotage (MCP)…** : la page se relie au serveur (WebSocket sur 127.0.0.1:47811, `MINIFUSION_PORT` pour changer ; pages distantes refusées). Recliquer coupe le lien.
+- **Serveur MCP** `tools/mcp-minifusion.cjs` (Node, sans dépendance) : Claude, ou tout client MCP, envoie des scripts à la page et lit l'état du modèle (`minifusion_run_script`, `minifusion_info`, `minifusion_commands`). Installation : `claude mcp add minifusion -- node <chemin>/tools/mcp-minifusion.cjs`, puis menu Projet → **🔌 Pilotage (MCP)…** dans MiniFusion (WebSocket local 127.0.0.1:47811).
 
 ## Développement
 
 | Chemin | Rôle |
 |---|---|
-| `src/*.js` | **Les sources** (77 fichiers, de l'en-tête à l'initialisation ; la FAO est découpée par domaine : parcours, caches, post-processeurs, simulation, interface, ébauche 3D, contour, géodésique, crêtes, perçage). C'est ici qu'on travaille. |
-| `fusion_mvp.html` | **Livrable généré** par `node build.js` (le HTML et le CSS de base vivent dans ce fichier, hors de la balise `<script>`). On n'édite jamais le script à la main. |
-| `tests/` | Suite Node portable (plus de 100 suites, dont certaines sur le noyau OCCT réel) : `node tests/run.cjs`, en parallèle (`-j N` pour la taille du pool, `--verbose` pour toutes les sorties ; les suites longues sont coupées en parties « suite:partie » ; sous Windows avec un processeur hybride, les ouvriers sont épinglés sur les cœurs P ou E après un étalonnage mis en cache, `TEST_AFFINITE=0` pour s'en passer) ; sous-ensemble rapide : `node tests/run-fast.cjs`. Non-régression des parcours FAO : `npm run parcours` recalcule chaque opération des exemples et compare son résumé (longueurs, niveaux, remontées, temps) à `tests/parcours/reference.json` ; `npm run parcours -- --ecrire` accepte les nouveaux chiffres (tableau dans `docs/parcours.md`). |
-| `tests/oracle/` | **Tests de référence** : pièces aux valeurs calculées à la main (volume, surface, centre de gravité, encombrement), vérifiées à chaque version par `test_oracle` ; tableau dans [docs/oracle.md](docs/oracle.md), régénéré par `npm run oracle`. |
-| `tools/lint.cjs` | Lint ESLint du script concaténé (même ordre que le build) : `npm run lint` (erreurs) ou `npm run lint:all`. |
-| `tools/mcp-minifusion.cjs` | Serveur MCP (stdio) relié à la page par WebSocket local : pilotage de MiniFusion par scripts JSON. |
-| `.github/workflows/ci.yml` | CI : build à jour, syntaxe, tests rapides, lint. |
-| `CHANGELOG.md` | Une entrée par version : cause, correctif, test. |
-| `occt/`, `threejs/` | Noyau OpenCascade WebAssembly, rendu three.js (`.wasm` via Git LFS). |
-| `PostPro/` | Une fiche par machine (`siemens-630.js`, `siemens-1520.js`, `fagor-8065.js`) : nom, extension, dialecte, axes, pivotement 3+2 (CYCLE800 ou TRAORI, dégagement avant pivotement), codes M, changement d'outil, fin de programme. Nouvelle machine = copier une fiche, la modifier, `npm run build`. |
-| `docs/` | Captures du README, analyses (crêtes constantes), tests de référence (`oracle.md`). |
+| `src/*.js` | **Les sources** : 101 fichiers concaténés dans l'ordre numérique (noyau, esquisse, fonctions 3D, assemblage, FAO découpée par domaine, mise en plan, rendu). C'est ici qu'on travaille. |
+| `fusion_mvp.html` | **Livrable généré** par `node build.js`. On n'édite jamais son script à la main. |
+| `PostPro/` | Une fiche par machine (`siemens-630.js`, `siemens-1520.js`, `fagor-8065.js`). Nouvelle machine = copier une fiche, la modifier, `npm run build`. |
+| `tests/` | 169 suites Node lancées en parallèle (`node tests/run.cjs`), 54 rapides (`node tests/run-fast.cjs`), non-régression des parcours FAO (`npm run parcours`), tests de référence (`tests/oracle/`, [docs/oracle.md](docs/oracle.md)). |
+| `tests/browser/` | Playwright dans un vrai Chromium : parcours critiques (`npm run test:browser`) et carte graphique réelle (`npm run test:gpu`). |
+| `tools/` | Lint du script concaténé (`npm run lint`), serveur MCP, **captures du README** (`npm run captures`). |
+| `occt/`, `threejs/` | Noyau OpenCascade WebAssembly, rendu three.js. |
+| `docs/` | Captures du README, analyses, tableaux de référence. |
 
 Cycle de livraison :
 1. modifier `src/` ;
 2. `node build.js` ;
-3. `npm run ci` (build à jour, syntaxe, tests rapides, lint), qui doit être vert ; la suite complète `node tests/run.cjs` quand c'est utile ; `npm run test:browser` pour les parcours critiques dans un vrai Chromium headless (noyau OCCT réel : ouverture d'Axe, esquisse → extrusion, FAO → G-code ; une fois : `npx playwright install chromium`, et `git lfs pull` pour les `.wasm`) ;
-4. incrémenter `APP_VER` dans `src/00-entete-et-outils.js` et `version` dans `package.json`, ajouter une entrée au CHANGELOG ;
+3. `npm run ci` (build à jour, syntaxe, tests rapides, lint), qui doit être vert ; la suite complète et les tests navigateur quand c'est utile ;
+4. incrémenter `APP_VER` (`src/00-entete-et-outils.js`) et `version` (`package.json`), ajouter une entrée au CHANGELOG ;
 5. commit, push et tag annoté `V0.x.y`.
 
 **Un seul numéro de version** : `APP_VER` = `package.json` = tag Git.
+
+Les captures de ce README sont refaites par `npm run captures` (Chromium sur la carte graphique, exemples Perçages, Crochet et Support Pédale ; les fichiers ne sont jamais réécrits). `npm run captures -- <dossier> rendu` n'en refait qu'une.
 
 ## Licences
 
